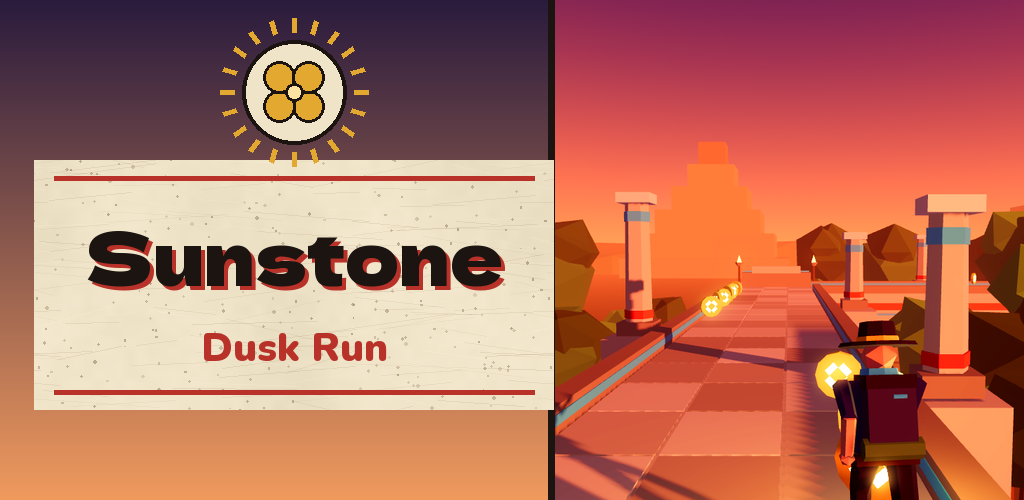
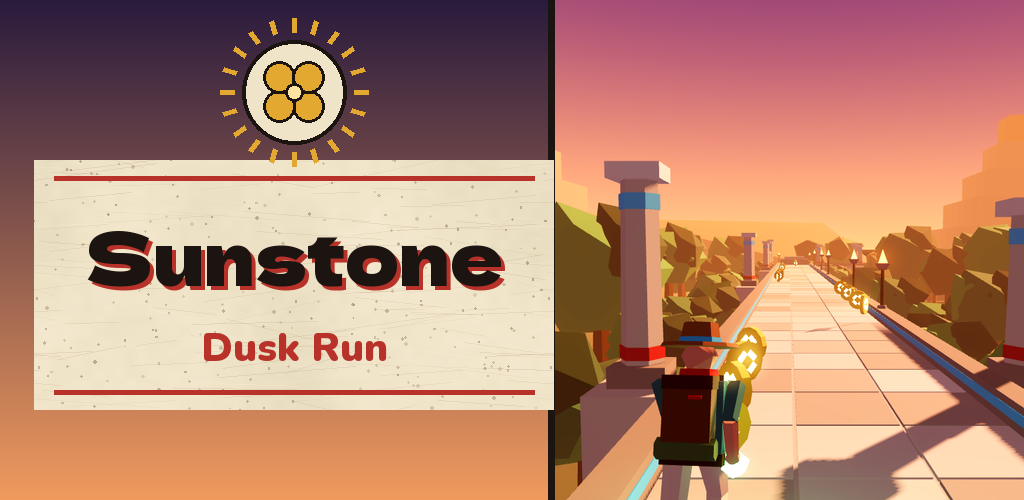
New store art: 8 phone and 8 tablet screenshots, feature graphic
Fresh shots from the Tab A9 and the A24 with a lived-in save: the jaguar
chase, the flare, sunset and night runs, ranks, glyphs and the market.
make_store_art.py now builds phone (1080x2160) and tablet (1080x1728)
sets from store/raw and fits captions to the width. Dev switch
files/dev_noflare stops the autopilot flaring for chase shots.

diff --git a/tools/make_store_art.py b/tools/make_store_art.py
@@ -1,10 +1,14 @@
 """Builds the Play Store art from raw device screenshots, in the Codex style.
 
-    python tools/make_store_art.py <folder with raw screenshots>
+    python tools/make_store_art.py [store/raw]
 
-Writes store/screenshots/NN.png (1080x2160 — Play's 2:1 limit) and
-store/feature-graphic.png (1024x500). Raw screenshots come from a phone
-(1080 wide) via `adb exec-out screencap -p`.
+Reads <raw>/phone/*.png (a 1080-wide phone) and <raw>/tablet/*.png (the Tab A9,
+800 wide), taken with `adb exec-out screencap -p`, and writes:
+  store/screenshots/phone/NN.png   1080x2160 (Play's 2:1 limit)
+  store/screenshots/tablet/NN.png  1080x1728 (fits Play's 7- and 10-inch slots;
+                                   the tablet screen stays at native size)
+  store/feature-graphic.png        1024x500
+Raw shots live in store/raw/ (gitignored).
 """
 import os
 import sys
@@ -23,15 +27,18 @@ OCHRE = (227, 168, 47)
 DUSK_TOP = (42, 27, 61)
 DUSK_LOW = (240, 154, 94)
 
-# (raw file, caption, small line) — in store order.
+# (raw file, caption, small line) — in store order (Play shows up to 8).
 SHOTS = [
-    ("02_sunset_2.png", "Run into the night", "The sun sets on every run."),
-    ("03_night_2.png", "Keep the Sunstone lit", "Your only light. The jaguars wait in the dark."),
+    ("02_sunset.png", "Run into the night", "The sun sets on every run."),
+    ("03b_chase.png", "Outrun the jaguars", "Stone guardians that move in the dark."),
+    ("03d_flare.png", "Tap to flare", "Turn the jaguars back to stone."),
+    ("03_night.png", "Keep the Sunstone lit", "Your only light on the causeway."),
     ("01_title.png", "Steal the Sunstone", "A painted Maya temple at dusk."),
-    ("05_daily.png", "One dusk for everyone", "A new causeway every day."),
+    ("05_ranks.png", "Race the world", "Ranks for the daily dusk, the week, all time."),
     ("06_glyphs.png", "Earn twenty glyphs", "Every one drawn like a scribe's sign."),
-    ("07_market.png", "Dress your explorer", "Charms, garbs and hues for sun-drops."),
+    ("07_market_garbs.png", "Dress your explorer", "Charms, garbs and hues for sun-drops."),
 ]
+SIZES = {"phone": (1080, 2160, 330), "tablet": (1080, 1728, 300)} # width, height, caption band
 
 
 def paper(w, h):
@@ -56,23 +63,31 @@ def rule(d, x0, x1, y, width=6):
     d.line([(x0, y), (x1, y)], fill=CINNABAR, width=width)
 
 
+def fitted(path, text, size, width, weight=None):
+    """The font at [size], shrunk until [text] fits in [width]."""
+    while True:
+        f = ImageFont.truetype(path, size)
+        if weight:
+            f.set_variation_by_axes([weight])
+        if ImageDraw.Draw(Image.new("RGB", (1, 1))).textlength(text, font=f) <= width or size <= 20:
+            return f
+        size -= 2
+
+
 def centered(d, text, font, cx, y, fill):
     w = d.textlength(text, font=font)
     d.text((cx - w / 2, y), text, font=font, fill=fill)
 
 
-def screenshot(raw, caption, line):
-    W, H = 1080, 2160
+def screenshot(raw, caption, line, kind="phone"):
+    W, H, band_h = SIZES[kind]
     canvas = gradient(W, H)
-    band_h = 330
     band = paper(W, band_h)
     bd = ImageDraw.Draw(band)
     rule(bd, 60, W - 60, 36)
     rule(bd, 60, W - 60, band_h - 36)
-    centered(bd, caption, ImageFont.truetype(DELA, 78), W / 2, 78, INK)
-    small = ImageFont.truetype(NUNITO, 40)
-    small.set_variation_by_axes([900])
-    centered(bd, line, small, W / 2, 196, CINNABAR)
+    centered(bd, caption, fitted(DELA, caption, 78, W - 140), W / 2, band_h * 0.236, INK)
+    centered(bd, line, fitted(NUNITO, line, 40, W - 140, 900), W / 2, band_h * 0.594, CINNABAR)
     canvas.paste(band, (0, 0))
     shot = Image.open(raw).convert("RGB")
     # Fit the phone screen below the band, with an ink frame.
@@ -129,11 +144,16 @@ def feature(raw_sunset):
 
 
 def main():
-    raw_dir = sys.argv[1]
-    os.makedirs(os.path.join(OUT, "screenshots"), exist_ok=True)
-    for i, (name, caption, line) in enumerate(SHOTS, 1):
-        screenshot(os.path.join(raw_dir, name), caption, line).save(os.path.join(OUT, "screenshots", "%02d.png" % i))
-    feature(os.path.join(raw_dir, "02_sunset_2.png")).save(os.path.join(OUT, "feature-graphic.png"))
+    raw_dir = sys.argv[1] if len(sys.argv) > 1 else os.path.join(OUT, "raw")
+    for kind in SIZES:
+        src = os.path.join(raw_dir, kind)
+        if not os.path.isdir(src):
+            continue
+        dst = os.path.join(OUT, "screenshots", kind)
+        os.makedirs(dst, exist_ok=True)
+        for i, (name, caption, line) in enumerate(SHOTS, 1):
+            screenshot(os.path.join(src, name), caption, line, kind).save(os.path.join(dst, "%02d.png" % i))
+    feature(os.path.join(raw_dir, "phone", "02_sunset.png")).save(os.path.join(OUT, "feature-graphic.png"))
     print("store art written to", os.path.abspath(OUT))
 
 

diff --git a/CLAUDE.md b/CLAUDE.md
@@ -97,7 +97,8 @@ adb -s R83X309RLNR shell monkey -p com.pranta.sunstone -c android.intent.categor
   `dumpsys SurfaceFlinger --latency '<SurfaceView layer>'` — every interval
   should be one vsync.
 - **Dusk dev switches:** `files/dev_dusk` (e.g. `1.0`) starts runs at that much
-  night; `files/dev_light` (e.g. `0.3`) sets the starting light.
+  night; `files/dev_light` (e.g. `0.3`) sets the starting light; `files/dev_noflare`
+  stops the autopilot flaring, so the jaguars close in (chase screenshots).
 - **Perf switches** (dev): with autopilot on, logcat prints fps / frame-time /
   draw calls every 2 s. Flag files in `files/` toggle features without a rebuild:
   `perf_noglow`, `perf_noshadow`, `perf_nomsaa`, `perf_nosky`, `perf_noui`,
@@ -191,8 +192,10 @@ them **untyped via ClassDB**; never name them as types.
   `61:D9:FE:78:02:71:C8:1E:9C:4E:3A:1B:12:0C:A1:A0:2C:6D:32:96`.
 - Release builds call `https://sunstone.pranta.dev` (debug: the LAN dev API).
 - Store copy, Data safety / content rating answers, IAP product table and the
-  release checklist: **`store/LISTING.md`**. Art: `store/` — regenerate with
-  `python tools/make_store_art.py <folder of raw phone screenshots>`.
+  release checklist: **`store/LISTING.md`**. Art: `store/screenshots/{phone,tablet}/`
+  and `store/feature-graphic.png`. Regenerate with `python tools/make_store_art.py`
+  from raw shots in `store/raw/{phone,tablet}/` (gitignored, same file names as
+  `SHOTS` in the tool).
 - Privacy policy, terms and refund policy: `legal/{privacy,terms,refund}.md` (shown in-game
   under Settings → Privacy & terms; host the same files for the stores).
 

diff --git a/store/LISTING.md b/store/LISTING.md
@@ -1,7 +1,13 @@
 # Play Store listing — Sunstone: Dusk Run
 
 Everything to paste into Play Console. Art is in this folder:
-`feature-graphic.png` (1024×500) and `screenshots/01–06.png` (1080×2160, phone).
+- `feature-graphic.png` (1024×500);
+- `screenshots/phone/01–08.png` (1080×2160) for the phone slot;
+- `screenshots/tablet/01–08.png` (1080×1728), which works for both the 7-inch and 10-inch tablet slots.
+
+Rebuild them with `python tools/make_store_art.py`, from the raw shots in `raw/`
+(gitignored). For a lived-in look, the shots used a showcase save and
+temporary ranks runners, deleted again afterwards.
 App icon: `assets/icon/icon.png` (512×512 export of it for the listing).
 
 ## App details
